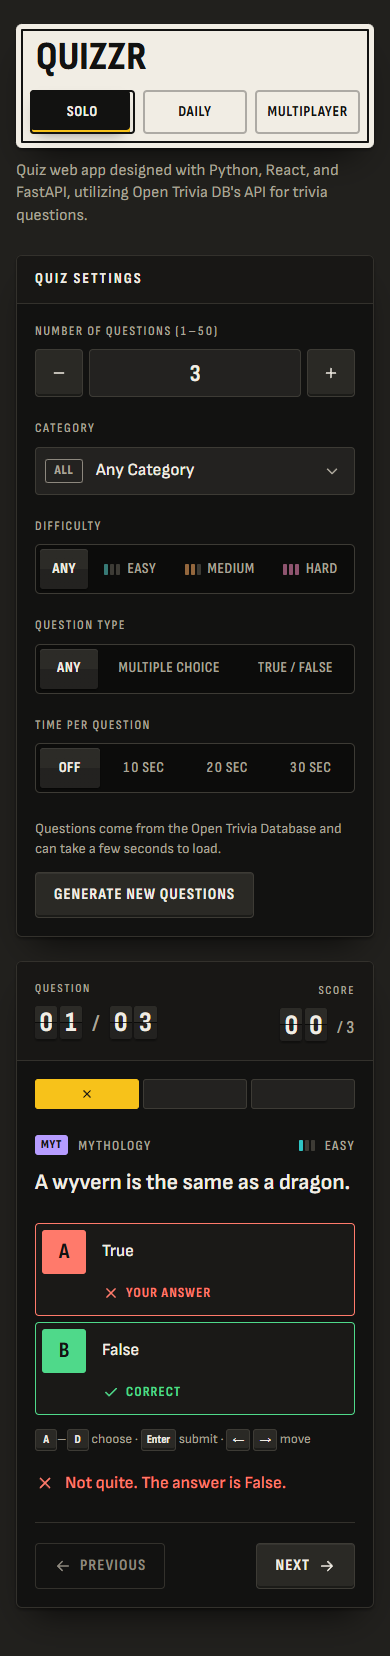
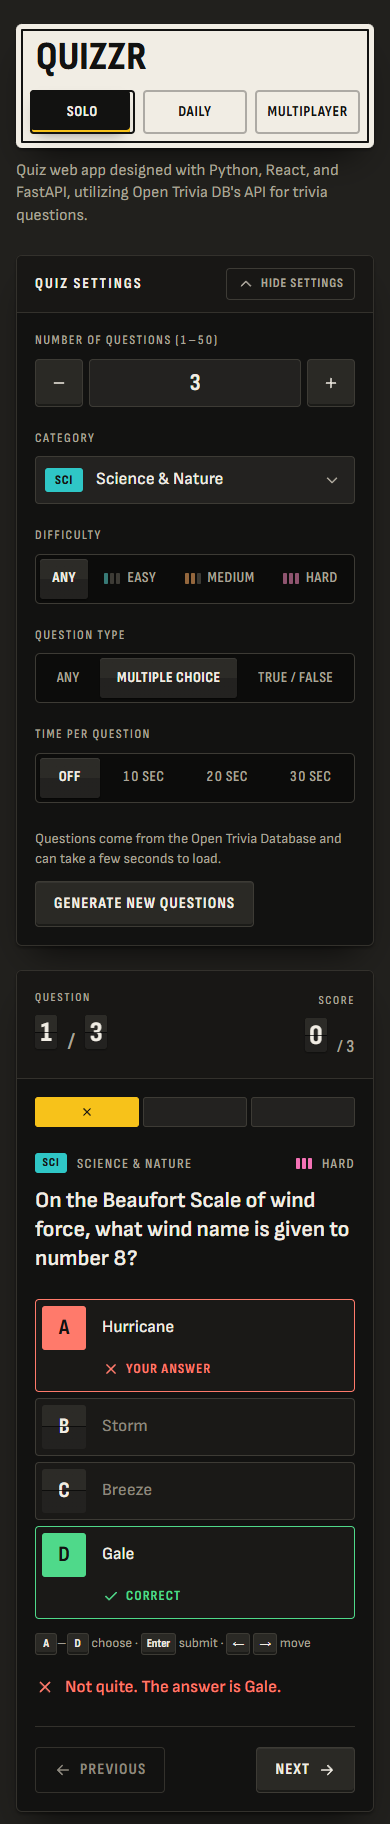
README: dark screenshots and a plainer rewrite
- Retook all three screenshots from the current app in dark mode (one was
  light, and all showed old details like "01 / 03"), and renamed them
  question.png, results.png and phone.png
- Rewrote the README in plain language: no bold lead-ins on every bullet
  or slogan lines, and no repeated facts between sections
- Fixed two inaccuracies: solo answers are checked in the browser, and
  timed games reveal answers when time runs out
- Replaced the tests table with the commands, shortened the deploy notes
  and the project structure
- Pointed frontend/README.md at the renamed "Project structure" section

diff --git a/README.md b/README.md
@@ -1,32 +1,30 @@
 # Quizzr
 
-**Trivia on a departure board.** Play solo, take the daily challenge against everyone else, or open a live multiplayer room and share a five-letter code. No accounts, no install.
-
 [![CI](https://github.com/jacobchen08/Quiz-App/actions/workflows/ci.yml/badge.svg?branch=app-prototype-v2)](https://github.com/jacobchen08/Quiz-App/actions/workflows/ci.yml)
 
-Built with React 19 + Vite on the front, FastAPI with WebSockets on the back, and questions from the [Open Trivia Database](https://opentdb.com/).
+A trivia game styled like a train station departure board. You can play on your own, take a daily challenge where everyone gets the same ten questions, or start a room and play live with friends. Questions come from the [Open Trivia Database](https://opentdb.com/).
+
+The frontend is React and Vite. The backend is FastAPI, with WebSockets for the multiplayer rooms.
 
 <p align="center">
-  <img src="docs/solo-question.png" alt="A solo round: settings on a black departure board, the current question with lettered answer rows, and side boards for the round's progress and answers" width="720">
+  <img src="docs/question.png" alt="A solo round on desktop: the quiz settings, a question answered wrong with the correct answer shown, and side boards with the round's progress" width="720">
 </p>
 
 <p align="center">
-  <img src="docs/results-dark.png" alt="The results screen in dark mode: the score on split-flap tiles, each missed question with your answer and the correct one, and a shareable result slip" width="480">
+  <img src="docs/results.png" alt="The results of a solo round: 2 out of 3, the missed question with the right answer, and a shareable result" width="480">
   &nbsp;
-  <img src="docs/mobile-dark.png" alt="The app on a phone in dark mode" width="200">
+  <img src="docs/phone.png" alt="A question on a phone" width="200">
 </p>
 
-## What you can do
+## Features
 
-- **Solo:** choose the number of questions, category, difficulty, question type and an optional time limit. Pick an answer, then submit it. The round ends on a results board with every question you missed and a result you can share.
-- **Daily challenge:** the same ten questions for everyone each day, one attempt each. The server checks every answer, and the leaderboard ranks by correct answers, then time.
-- **Multiplayer:** create a room and share the code or invite link. The host picks the settings and everyone sees them live. Scoring is 100 points per correct answer plus up to 50 for speed, and the leaderboard updates as people answer.
-  - With a **time limit**, the game runs in lockstep: one question at a time for everyone, closed by the server's clock.
-- **Rejoin after a dropped connection.** If your phone switches apps or you reload mid-game, you're put back in your seat with your answers and score.
-- **Works offline.** After one visit the app opens without a connection, and solo keeps playing from a pack of questions saved in the browser. The daily challenge and multiplayer say plainly that they need a connection.
-- **Play from the keyboard.** `A`–`D` choose, `Enter` submits, the arrow keys move between questions, and the mode tabs follow the ARIA tabs pattern.
+- **Solo:** 1 to 50 questions, with optional filters for category, difficulty and question type, and an optional timer. At the end you see the questions you missed and get a result you can share.
+- **Daily:** the same ten questions for everyone, once a day. The leaderboard sorts by correct answers, then time.
+- **Multiplayer:** create a room and send friends the code or invite link. A right answer is worth 100 points, plus up to 50 more for speed. With a timer on, everyone answers each question at the same time.
 
-## Architecture
+It also handles reconnecting (reload mid-game and you're back in your seat), works offline for solo play once you've visited, and can be played from the keyboard: `A` to `D` to choose, `Enter` to submit, arrow keys to move between questions.
+
+## How it works
 
 ```mermaid
 flowchart LR
@@ -50,147 +48,87 @@ flowchart LR
     D --> DB
 ```
 
-In production the frontend is a static site on a CDN and the API is a separate Docker service (see [`render.yaml`](render.yaml)), so the page loads instantly even while the free-tier API is waking up.
+Solo play only needs the server to fetch questions. Answers are checked in the browser, since you're only playing against yourself.
 
-## Design decisions
+In the daily challenge and in multiplayer, the correct answers stay on the server. Each one is only sent to the browser after you answer (or, in a timed game, when time runs out), so nobody can find them in dev tools. Daily results are stored in Postgres in production and in a SQLite file during development. Multiplayer rooms only live in the server's memory, so a restart ends any game in progress.
 
-- **The server checks every answer.** The browser never receives a correct answer before the player has answered that question. In multiplayer and the daily challenge, correct answers stay on the server, so nobody can read them from dev tools. Solo play is only against yourself, so it checks answers in the browser.
-- **Seats are held instead of dropped.** A WebSocket that closes without saying "leave" keeps its seat for 90 seconds. The browser reconnects with a per-tab token and gets its answers back. Losing your place because your phone switched apps is the most common way a real-time game feels broken.
-- **Timed games run on the server's clock.** Each state message includes the server's time, so every browser counts down to the same deadline. Answers that arrive after it (with a little network grace) are refused, and the speed bonus is measured from when each question opened.
-- **One daily attempt per browser, without accounts.** A random token in `localStorage` identifies a player. Someone could get another attempt by clearing their storage. For a casual game that trade is better than making people sign up, and the leaderboard only lists finished runs.
-- **One database layer, two backends.** The daily challenge's SQL runs on both SQLite, with zero setup for development, and Postgres, which survives restarts in production. CI runs the tests against both.
-- **Built for everyone.** The target is WCAG 2.2 AA. Right and wrong always carry a glyph and a word, never color alone. Motion respects reduced-motion settings, live changes are announced to screen readers, and automated axe checks run on every push, in light and dark mode.
+A few design choices worth explaining:
 
-## Run it locally
+- When a player's connection drops without them leaving, the server holds their seat for 90 seconds. The browser keeps a token for that tab and uses it to rejoin. Without this, a phone switching apps for a moment would knock someone out of the game.
+- Timed games run on the server's clock. Every update includes the server's current time, so each browser can count down to the same deadline, and answers that arrive too late are refused.
+- There are no accounts. The daily challenge identifies you with a random token saved in your browser. Clearing your storage would give you a second attempt, which seemed like a fair trade for not making anyone sign up.
 
-You need Python 3.12+ and Node 22+.
+## Running it locally
+
+You'll need Python 3.12 or newer and Node 22 or newer. Start the API first:
 
 ```bash
-# API on http://localhost:8000
 cd backend
 pip install -r requirements.txt
 uvicorn main:app --reload --port 8000 --no-access-log
 ```
 
+Then, in a second terminal, the app:
+
 ```bash
-# App on http://localhost:5173 (forwards /api to port 8000)
 cd frontend
 npm install
 npm run dev
 ```
 
+Open http://localhost:5173. The dev server forwards `/api` requests to the API on port 8000.
+
 ## Tests
 
-| Suite | Command | What it covers |
-| --- | --- | --- |
-| Backend | `pip install -r backend/requirements-dev.txt` then `python -m pytest backend` | Question fetching and retries, multiplayer rooms (scoring, streaks, held seats, timed lockstep, shared settings), the daily challenge, rate limits |
-| Frontend | `npm test` (in `frontend`) | Components and scoring helpers, including keyboard play and timed states |
-| End-to-end | `npm run test:e2e` (in `frontend`) | Real browsers: a keyboard-played solo round, a timed question, the daily challenge, a two-player timed game with a reload mid-game, offline play, and WCAG 2.2 AA checks in light and dark |
+```bash
+# backend
+pip install -r backend/requirements-dev.txt
+python -m pytest backend
 
-The end-to-end suite starts its own API and dev server on separate ports, with Open Trivia DB swapped for predictable offline questions (`QUIZZR_OFFLINE_TRIVIA=1`). Locally it uses the installed Microsoft Edge. In CI it uses Playwright's Chromium.
-
-[GitHub Actions](.github/workflows/ci.yml) runs all of it on every push, with the daily-challenge tests run a second time against a real Postgres.
-
-## Deploy
-
-[`render.yaml`](render.yaml) is a Render Blueprint for two services. Create them with **New → Blueprint** on [render.com](https://render.com).
-
-| Setting | Where | Purpose |
-| --- | --- | --- |
-| `DATABASE_URL` | `quizzr-api` | A Postgres connection string, e.g. from a free [Neon](https://neon.tech) database. Without it, the daily leaderboard uses SQLite and resets whenever the server restarts. |
-| `ALLOWED_ORIGINS` | `quizzr-api` | Filled in automatically with the static site's address |
-| `VITE_API_HOST` | `quizzr` | Filled in automatically with the API's address |
-
-The [`Dockerfile`](Dockerfile) also works on its own as a single service that serves both the API and the built app.
-
-The API logs one JSON line per request and per game event, and rate-limits by IP address. The limits cover creating rooms, fetching questions, daily answers and WebSocket messages.
-
-## Project layout
-
-Two apps live side by side: `backend/` is the API server (Python), `frontend/` is the web page (React). They talk over HTTP and, for multiplayer, a WebSocket.
-
-```
-backend/                     The API server (FastAPI). Run it with: uvicorn main:app
-  main.py                    Starts here: builds the app and plugs in every route below
-  trivia.py                  Fetches questions from Open Trivia DB; prepares them for play
-  multiplayer.py             Live rooms over WebSockets: seats, scoring, streaks, timed games
-  daily.py                   The daily challenge: today's questions, answers, leaderboard
-  database.py                Talks to Postgres (production) or a SQLite file (development)
-  ratelimit.py               Limits how often one visitor can call each endpoint
-  logs.py                    Writes one JSON line per request or game event
-  tests/                     pytest tests, one file per module above
-
-frontend/                    The web page (React + Vite)
-  index.html                 The page shell: title, icons, link previews
-  vite.config.js             Build setup: dev proxy to the API, the offline service worker
-  playwright.config.js       How the end-to-end tests start a throwaway API and app
-  public/                    Files served as they are: icons, the web app manifest, link preview image
-  e2e/                       End-to-end tests: real browsers playing each mode, plus accessibility checks
-  src/
-    main.jsx                 Starts here: loads the styles, draws <App>, registers the service worker
-    App.jsx                  The whole page: the sign and mode tabs, the three modes, the side boards
-
-    modes/                   One folder per tab. Each owns its state and talks to the server.
-      solo/Solo.jsx            Settings, a round of questions, results. Works offline too.
-      daily/Daily.jsx          Today's challenge: start, answer (checked by the server), results
-      daily/DailyLeaderboard.jsx   Today's finishers
-      multiplayer/Multiplayer.jsx  A live room: the WebSocket, reconnecting, lobby, game, results
-      multiplayer/JoinRoom.jsx     Your name, then create a room or type a code to join one
-      multiplayer/RoomLeaderboard.jsx  The players in a room, ranked as they score
-
-    components/              Pieces of the screen shared by the modes
-      QuestionCard.jsx         One question: readouts, answer rows, feedback, keyboard play
-      ResultsBoard.jsx         The end of a round: score, stats, missed questions, share
-      ShareResult.jsx          The shareable result slip and its Share button
-      Settings.jsx             Quiz settings: the form, the fold-away toggle, the read-only summary
-      SideBoards.jsx           Boards beside the quiz on wide screens: Answers, Lines, Your round, How to play
-      FlapText.jsx             Text on split-flap tiles that flip when it changes
-      WakeBanner.jsx           "Waking the server up" notice for slow requests
-      OfflineBanner.jsx        "You're offline" notice
-      Icon.jsx, RouteBadge.jsx, Pips.jsx   Small drawn pieces: icons, category badges, difficulty bars
-
-    hooks/                   Reusable React behaviour
-      useOnline.js             Whether the browser is online
-      usePersistentFlag.js     An on/off choice remembered in this browser
-      useBringIntoView.js      Scrolls a new round's first question into view
-      useFlipList.js           Slides leaderboard rows to their new places
-      useIndicator.js          Measures the selected tab or option so its highlight can slide to it
-
-    lib/                     Plain JavaScript, no React: the logic, easy to test on its own
-      api.js                   Where the API is, and the calls the modes make to it
-      serverStatus.js          fetch with a time limit, and tracking of slow requests
-      questions.js             Decodes and shuffles Open Trivia DB questions for solo play
-      results.js               Streaks, verdicts, share text and other scoring helpers
-      categories.js            Categories and difficulties, with their line colours and codes
-      offlinePack.js           The questions saved in this browser for playing offline
-      storage.js               Everything kept in browser storage, read and written safely
-      seat.js                  Your seat in a multiplayer room, kept for this tab
-      flapDrum.js              Which characters a flap tile passes through, and how fast
-      motion.js                Whether the visitor asked for reduced motion
-
-    styles/                  The look. index.css loads the rest in order (later files win).
-      tokens.css               Every colour, font, radius and curve (see DESIGN.md)
-      base.css                 Fonts, resets and the page column
-      motion.css               Animations shared across the app
-      layout.css               The sign, the mode tabs and where boards sit on the page
-      board.css, buttons.css, flaps.css, lines.css   The building blocks
-      settings.css, messages.css, question.css, side-boards.css, results.css   Parts of the screen
-      leaderboard.css, multiplayer.css, daily.css   Mode-specific pieces
-
-    test/setup.js            Prepares the simulated browser the unit tests run in
-
-  *.test.js(x) files sit next to the code they test.
-
-docs/                        Screenshots for this README
-DESIGN.md                    The design system: colours, type, components, rules
-PRODUCT.md                   Who the app is for and the constraints it works within
-Dockerfile                   Builds the API (and the app) into one container
-render.yaml                  Hosting setup on Render: a static site plus the API
-.github/workflows/ci.yml     Runs every test on every push
+# frontend unit tests and end-to-end tests (run inside frontend/)
+npm test
+npm run test:e2e
 ```
 
-**Following one answer through the code.** In the daily challenge, clicking an answer and pressing Submit calls `onAnswer` in `components/QuestionCard.jsx`. That runs `answer()` in `modes/daily/Daily.jsx`, which sends it to the server with `daily.answer()` from `lib/api.js`. On the server, `answer_daily()` in `backend/daily.py` checks it, stores it through `database.py`, and replies with whether it was right. Back in the browser, the reply updates the question card and the side boards.
+The backend tests cover fetching questions, multiplayer rooms (scoring, reconnecting, timed games), the daily challenge and rate limiting. The end-to-end tests play each mode in a real browser, including a two-player game where one player reloads halfway through, and run accessibility checks in light and dark mode. They start their own copy of the API with fixed test questions, so they don't need the internet.
+
+GitHub Actions runs everything on each push, and runs the daily challenge tests a second time against Postgres.
+
+## Deploying
+
+[`render.yaml`](render.yaml) sets up two services on [Render](https://render.com): the app as a static site and the API as a Docker container. Keeping them separate means the page loads straight away even when the free API server is asleep, and the app shows a message while it wakes up.
+
+The only setting to fill in by hand is `DATABASE_URL` on the API, which should point at a Postgres database (a free [Neon](https://neon.tech) one works). Without it the daily leaderboard falls back to SQLite and is wiped every time Render restarts the server.
+
+The [`Dockerfile`](Dockerfile) can also run everything as a single service, with the API serving the built app.
+
+## Project structure
+
+```
+backend/
+  main.py           creates the FastAPI app and registers the routes
+  trivia.py         fetches questions from Open Trivia DB
+  multiplayer.py    multiplayer rooms over WebSockets
+  daily.py          the daily challenge and its leaderboard
+  database.py       Postgres or SQLite connections
+  ratelimit.py      per-IP rate limits
+  logs.py           JSON logging
+  tests/
+
+frontend/src/
+  main.jsx          entry point
+  App.jsx           the page layout and mode tabs
+  modes/            Solo, Daily and Multiplayer, one folder each
+  components/       pieces shared by the modes, like the question card and results
+  hooks/            reusable React hooks
+  lib/              logic with no React in it: API calls, scoring, browser storage
+  styles/           one stylesheet per part of the page; tokens.css has the colours and fonts
+frontend/e2e/       end-to-end tests
+docs/               screenshots for this README
+```
+
+[`DESIGN.md`](DESIGN.md) describes the visual design and [`PRODUCT.md`](PRODUCT.md) covers who the app is for.
 
 ## Credits
 
-Questions come from the [Open Trivia Database](https://opentdb.com/), licensed [CC BY-SA 4.0](https://creativecommons.org/licenses/by-sa/4.0/). The typeface is [Sofia Sans](https://github.com/lettersoup/Sofia-Sans), under the SIL Open Font License.
+Questions come from the [Open Trivia Database](https://opentdb.com/) under [CC BY-SA 4.0](https://creativecommons.org/licenses/by-sa/4.0/). The typeface is [Sofia Sans](https://github.com/lettersoup/Sofia-Sans), under the SIL Open Font License.

diff --git a/frontend/README.md b/frontend/README.md
@@ -1,6 +1,6 @@
 # Quizzr frontend
 
-The React + Vite app for Quizzr. See the [main README](../README.md) for what it does, how to run it and how it's tested, and its [project layout](../README.md#project-layout) for what each file in `src/` does.
+The React + Vite app for Quizzr. See the [main README](../README.md) for what it does, how to run it and how it's tested, and its [project layout](../README.md#project-structure) for how `src/` is organized.
 
 ```bash
 npm install
